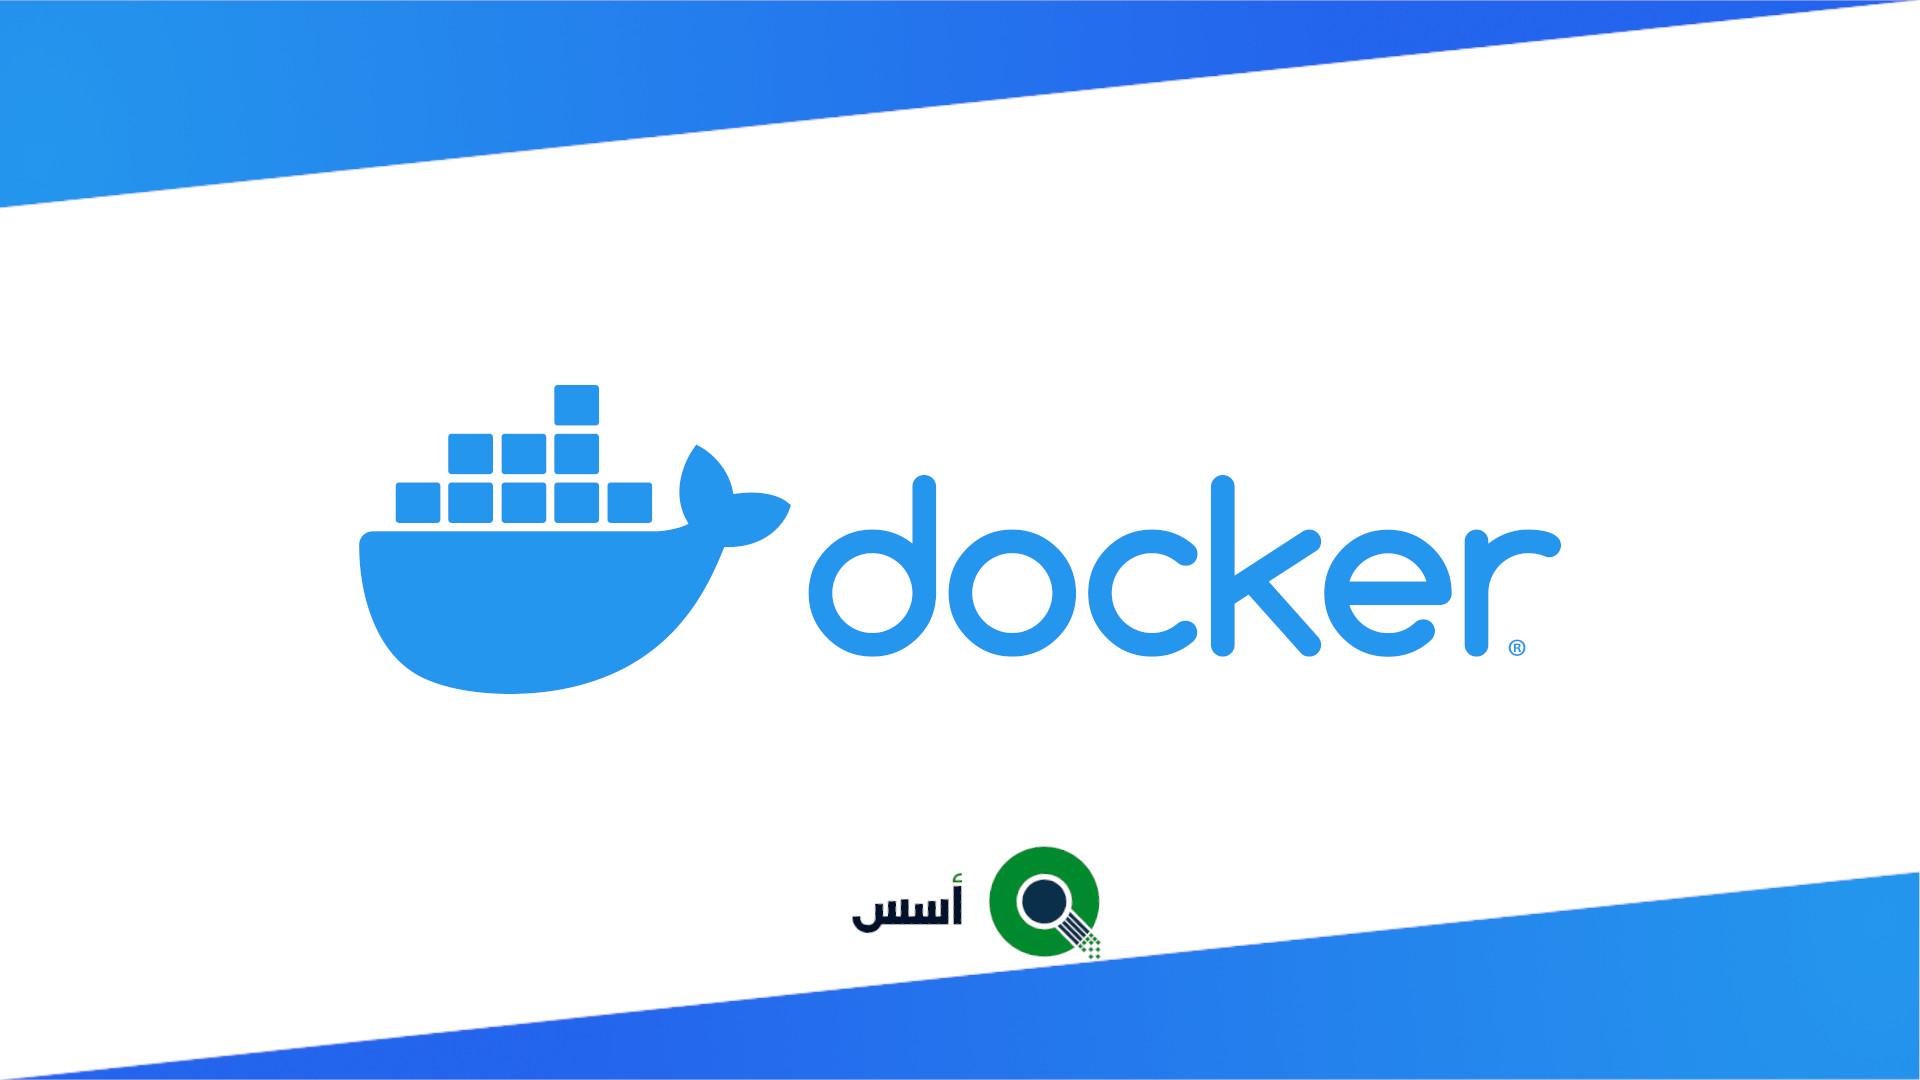
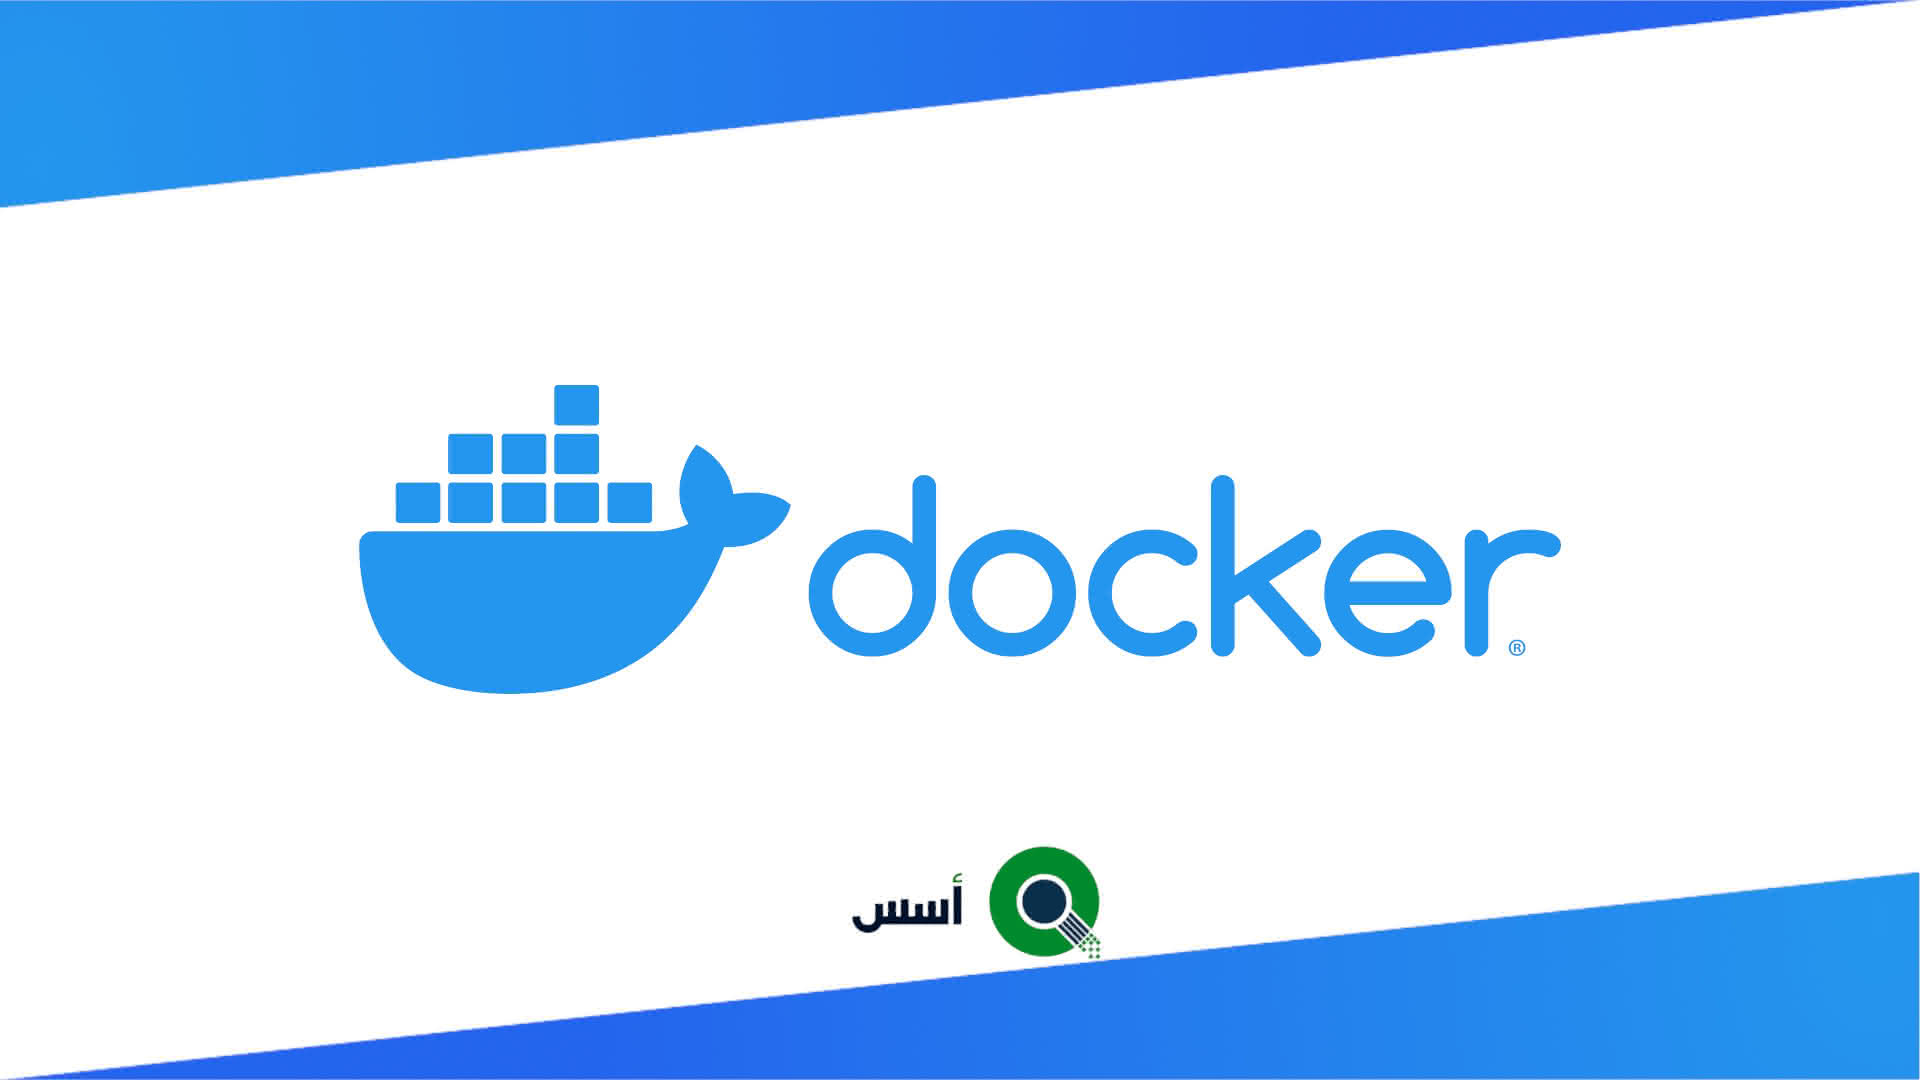
compress images

diff --git a/content/post/cloudflared-docker-setup/index.md b/content/post/cloudflared-docker-setup/index.md
@@ -16,7 +16,7 @@ tags:
 date: 2022-10-28
 summary: تثبيت جسر Cloudflared لوصل الخادم بخوادم Cloudflared دون كشف الخادم نفسه, على
   Docker دون جذر او مع جذر.
-image: thumbnail.jpeg
+image: thumbnail.jpg
 ---
 
 عندما بحثت عن طريقه تثبيت Cloudflared على Docker, خاصة بدون استخادم لوحه تحكم Zero Trust(بسبب مشاكل الدفع) لم اجد شيء.

diff --git a/content/post/cloudflared-docker-setup/index.en.md b/content/post/cloudflared-docker-setup/index.en.md
@@ -14,7 +14,7 @@ tags:
   - Cloudflare Zero Trust
 date: 2022-10-28
 summary: Setting up Cloudflared in docker to tunnel to a container without expoing the server.
-image: thumbnail-en.jpeg
+image: thumbnail-en.jpg
 lastmod: 2022-11-07
 ---
 
